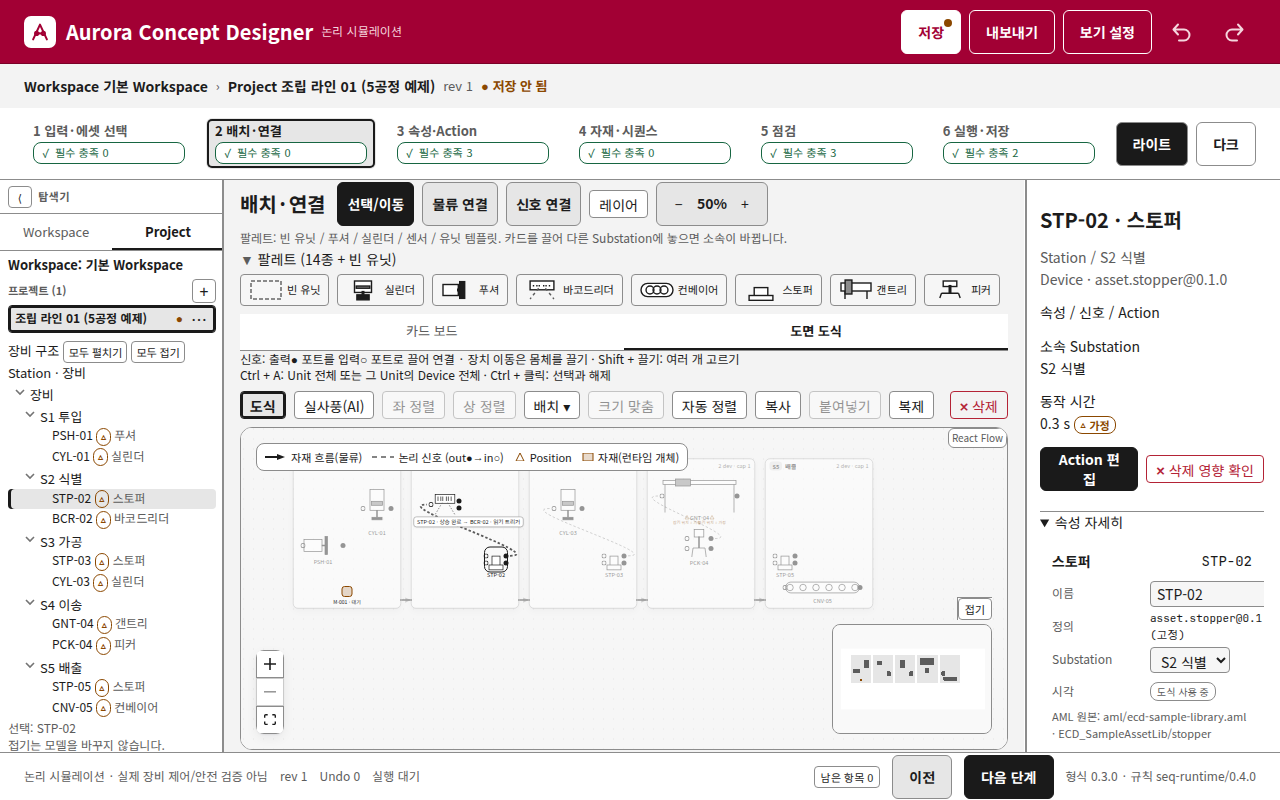
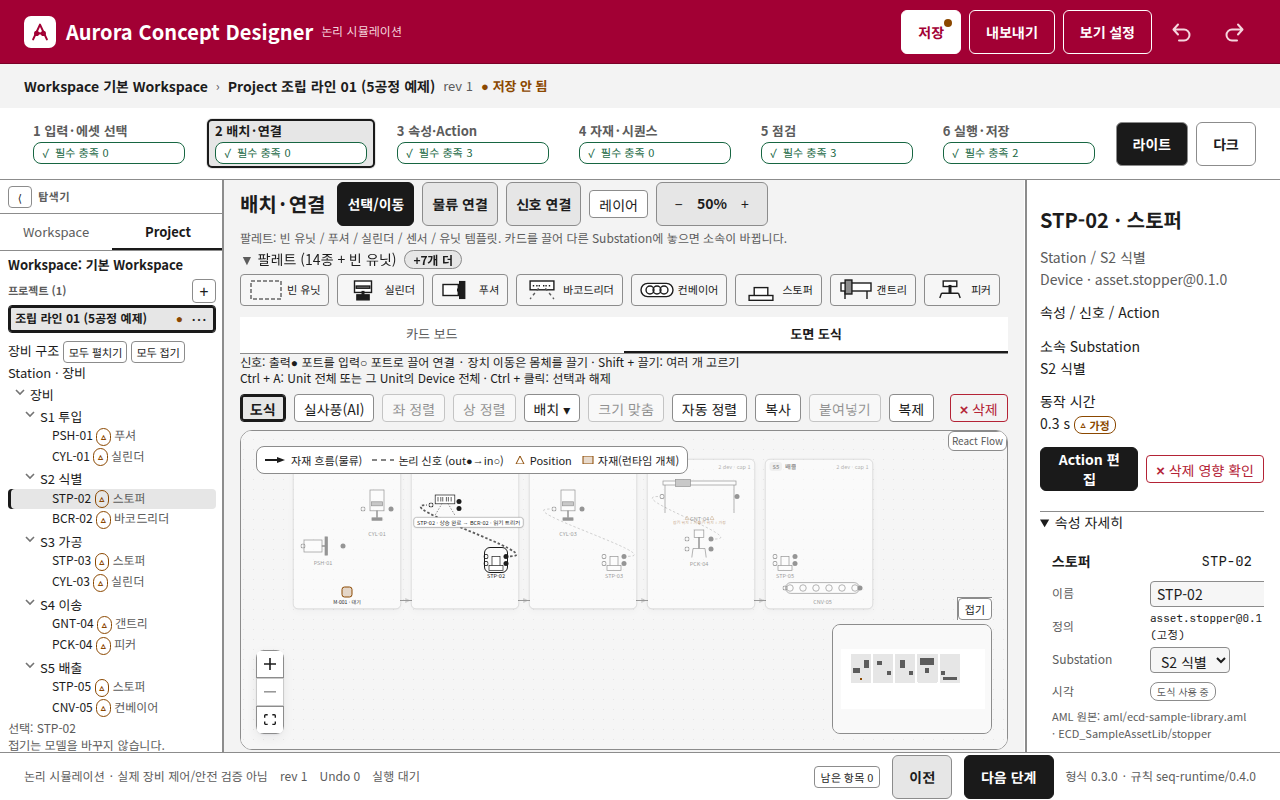
TURN-048: 팔레트는 도면이 320px 남을 때 줄을 다 보여 준다
고정 한 줄 대신, 도면 도식이 320px 아래로 내려갈 때만 팔레트를 줄여 스크롤한다. 줄인 화면에는 「+N개 더」를 둔다.

diff --git a/src/ui/screenRoom.ts b/src/ui/screenRoom.ts
@@ -1,21 +1,23 @@
-// TURN-048: 1280×800 stage-2 diagram room.
-// The open palette scrolls inside PALETTE_OPEN_MAX so the schematic stays at least DIAGRAM_MIN.
-// Heights below are the stage rows measured at 1280×800 (Noto Sans KR, device pixel ratio 1).
+// TURN-048: stage-2 diagram room.
+// The palette keeps every wrapped row while the schematic stays at least DIAGRAM_MIN.
+// It shrinks and scrolls only when showing every row would push the schematic under that floor.
+// Row heights below are the open palette's content height at that width (Noto Sans KR, dpr 1).
 
-/** Floor for `.diagram-canvas` when the stage-2 palette is open at 1280×800. */
+/** Floor for `.diagram-canvas` on the layout step. */
 export const DIAGRAM_MIN = 320;
 
-/** One palette row. The other kinds scroll inside `.layout-stage .palette-fold .palette`. */
-export const PALETTE_OPEN_MAX = 40;
+/**
+ * Natural height of the open palette (every wrapped row, no cap).
+ * 1280-wide stage fits the 15 kinds in three rows (116px). 1600-wide fits them in two (76px).
+ */
+export const PALETTE_NATURAL = { w1280: 116, w1600: 76 } as const;
 
 /**
- * Vertical budget, px. Shell: header 64, work bar 44, stepper 72, status 48 → workspace 572.
+ * Vertical budget, px, aside from the palette body. Shell: header 64, work bar 44, stepper 72, status 48.
  * Stage pads 2+2 and gaps 4 between head, hint, palette, and the tab block.
- * `tools` is the diagram tool row (two-line hint plus the 28px buttons).
- * `panelGap` is the gap between that row and the schematic.
+ * `tools` is the diagram tool row. `panelGap` is the gap between that row and the schematic.
  */
 export const STAGE2_BUDGET = {
-  viewportH: 800,
   header: 64,
   workbar: 44,
   stepper: 72,
@@ -26,7 +28,6 @@ export const STAGE2_BUDGET = {
   head: 44,
   hint: 16.2,
   summary: 19.6,
-  paletteMax: PALETTE_OPEN_MAX,
   tab: 37,
   tools: 68.4,
   panelGap: 8,
@@ -36,12 +37,28 @@ export const STAGE2_BUDGET = {
 export const LEGEND_H = 28;
 export const ZOOM_CONTROLS_H = 84;
 
-export function stage2DiagramHeight(b = STAGE2_BUDGET): number {
-  const workspace = b.viewportH - b.header - b.workbar - b.stepper - b.statusbar;
+/** Height left for the palette body and the schematic together. */
+export function roomForPaletteAndDiagram(viewportH: number, b = STAGE2_BUDGET): number {
+  const workspace = viewportH - b.header - b.workbar - b.stepper - b.statusbar;
   const gaps = b.stageGap * (b.rows - 1);
   const inner = workspace - b.stagePadY * 2 - gaps;
-  const above = b.head + b.hint + b.summary + b.paletteMax + b.tab + b.tools + b.panelGap;
-  return inner - above;
+  const beside = b.head + b.hint + b.summary + b.tab + b.tools + b.panelGap;
+  return inner - beside;
+}
+
+/**
+ * Show the whole palette when the schematic still clears `diagramMin`.
+ * Otherwise shorten the palette and keep the schematic on that floor.
+ */
+export function fitPalette(room: number, naturalPalette: number, diagramMin = DIAGRAM_MIN) {
+  const roomLeft = Math.max(0, room);
+  const natural = Math.max(0, naturalPalette);
+  const palette = Math.min(natural, Math.max(0, roomLeft - diagramMin));
+  return { palette, diagram: roomLeft - palette, clipped: natural - palette > 0.5 };
+}
+
+export function stage2DiagramHeight(viewportH = 800, naturalPalette = PALETTE_NATURAL.w1280): number {
+  return fitPalette(roomForPaletteAndDiagram(viewportH), naturalPalette).diagram;
 }
 
 /** Legend and zoom controls sit on opposite edges of the diagram and do not meet. */

diff --git a/src/ui/App.tsx b/src/ui/App.tsx
@@ -174,6 +174,29 @@ export function App({ onHistory }: { onHistory?: (h: History) => void } = {}) {
   const subUnitId = (p.units.some((u) => u.id === subUnitPref) ? subUnitPref : selUnit ?? p.units.find((u) => (p.substationSequences ?? []).some((q) => q.unitId === u.id))?.id ?? p.units[0]?.id ?? '');
 
   useEffect(() => { saveView(kv, view); }, [kv, view]);
+  const paletteRef = useRef<HTMLDivElement>(null);
+  const [paletteHidden, setPaletteHidden] = useState(0);
+  useEffect(() => {
+    const el = paletteRef.current;
+    const fold = el?.closest('.palette-fold') as HTMLElement | null;
+    if (!el || !fold) { setPaletteHidden(0); return; }
+    const count = () => {
+      const box = fold.getBoundingClientRect();
+      if (box.height < 1 || fold.scrollHeight <= fold.clientHeight + 1) { setPaletteHidden(0); return; }
+      let n = 0;
+      for (const item of el.querySelectorAll('.pi')) {
+        const r = item.getBoundingClientRect();
+        if (r.height < 1) continue;
+        if (r.top < box.top - 1 || r.bottom > box.bottom + 1) n += 1;
+      }
+      setPaletteHidden((v) => (v === n ? v : n));
+    };
+    count();
+    const ro = new ResizeObserver(count);
+    ro.observe(fold);
+    fold.addEventListener('scroll', count);
+    return () => { ro.disconnect(); fold.removeEventListener('scroll', count); };
+  }, [step, view.paletteOpen, view.layoutTab]);
   useEffect(() => { if (wsInit?.warnings.length) say(wsInit.warnings.join(' / '), true); }, []); // eslint-disable-line react-hooks/exhaustive-deps
   useEffect(() => { onHistory?.(tab.history); }, [onHistory, tab.history]);
   // N03: a project that is not active never keeps running in the background → pause (state kept, no auto resume)
@@ -1095,8 +1118,8 @@ export function App({ onHistory }: { onHistory?: (h: History) => void } = {}) {
             </div>
           </div>
           <p className="palette-hint">팔레트: 빈 유닛 / 푸셔 / 실린더 / 센서 / 유닛 템플릿. 카드를 끌어 다른 Substation에 놓으면 소속이 바뀝니다.</p>
-          <Fold className="palette-fold" open={view.paletteOpen} onToggle={(open) => setView((v) => (v.paletteOpen === open ? v : { ...v, paletteOpen: open }))} summary={<><span className="fold-closed">팔레트 펼치기 ({ASSET_LIBRARY.length}종 + 빈 유닛)</span><span className="fold-open">팔레트 ({ASSET_LIBRARY.length}종 + 빈 유닛)</span></>}>
-            <div className="palette">
+          <Fold className="palette-fold" open={view.paletteOpen} onToggle={(open) => setView((v) => (v.paletteOpen === open ? v : { ...v, paletteOpen: open }))} summary={<><span className="fold-closed">팔레트 펼치기 ({ASSET_LIBRARY.length}종 + 빈 유닛)</span><span className="fold-open">팔레트 ({ASSET_LIBRARY.length}종 + 빈 유닛)</span>{paletteHidden > 0 && <span className="palette-more" data-palette-more={paletteHidden}>+{paletteHidden}개 더</span>}</>}>
+            <div className="palette" ref={paletteRef}>
               <div className="pi" data-jump="palette-unit" draggable onDragStart={(e) => e.dataTransfer.setData('application/x-ecd-asset', 'unit')}><PaletteIcon kind="unit" />빈 유닛</div>
               {ASSET_LIBRARY.map((a) => <div key={a.kind} className="pi" draggable onDragStart={(e) => e.dataTransfer.setData('application/x-ecd-asset', a.kind)} title={`${a.id}@${a.version}`}><PaletteIcon kind={a.kind} />{a.name}</div>)}
             </div>

diff --git a/tests/ui-turn048.test.tsx b/tests/ui-turn048.test.tsx
@@ -18,7 +18,7 @@ import {
   RUN_FIT_PAD,
 } from '../src/ui/Canvas';
 import { DIM_EDGE_OPACITY, edgeWidth, flowCaption, graphFocus, portWord, signalCaption } from '../src/ui/edgeFocus';
-import { DIAGRAM_MIN, PALETTE_OPEN_MAX, stage2DiagramHeight, stage2OverlayClears } from '../src/ui/screenRoom';
+import { DIAGRAM_MIN, PALETTE_NATURAL, fitPalette, roomForPaletteAndDiagram, stage2DiagramHeight, stage2OverlayClears } from '../src/ui/screenRoom';
 import { loadView } from '../src/ui/viewSettings';
 import { VIEW_KEY } from '../src/storage/localStore';
 import { holdRuntimeClock } from './holdRuntimeClock';
@@ -26,6 +26,7 @@ import { holdRuntimeClock } from './holdRuntimeClock';
 (globalThis as { IS_REACT_ACT_ENVIRONMENT?: boolean }).IS_REACT_ACT_ENVIRONMENT = true;
 
 const css = readFileSync('src/ui/styles.css', 'utf8');
+const appSrc = readFileSync('src/ui/App.tsx', 'utf8');
 let root: Root | null = null;
 let restoreObserver: (() => void) | null = null;
 
@@ -263,16 +264,26 @@ describe('TURN-048 edge emphasis', () => {
 });
 
 describe('TURN-048 screen room', () => {
-  it('AC7 at 1280×800 the open palette leaves the diagram at least 320px and keeps every kind', async () => {
-    const height = stage2DiagramHeight();
-    expect(height).toBeGreaterThanOrEqual(DIAGRAM_MIN);
-    expect(stage2OverlayClears(height)).toBe(true);
+  it('AC7 the palette keeps every row while the diagram stays at least 320px, and marks hidden rows', async () => {
+    const wide = fitPalette(roomForPaletteAndDiagram(1000), PALETTE_NATURAL.w1600);
+    expect(wide.clipped).toBe(false);
+    expect(wide.palette).toBe(PALETTE_NATURAL.w1600);
+    expect(wide.diagram).toBeGreaterThanOrEqual(DIAGRAM_MIN);
+    const narrow = fitPalette(roomForPaletteAndDiagram(800), PALETTE_NATURAL.w1280);
+    expect(narrow.diagram).toBeGreaterThanOrEqual(DIAGRAM_MIN);
+    expect(narrow.diagram).toBe(stage2DiagramHeight());
+    expect(narrow.clipped).toBe(true);
+    expect(narrow.palette).toBeLessThan(PALETTE_NATURAL.w1280);
+    expect(stage2OverlayClears(narrow.diagram)).toBe(true);
     expect(css).toMatch(/\.app \.ws-canvas > \.stage\.layout-stage \{[^}]*padding:\s*2px 16px/);
     expect(css).toMatch(/\.app \.ws-canvas > \.stage\.layout-stage \{[^}]*gap:\s*4px/);
-    expect(css).toContain(`max-height: ${PALETTE_OPEN_MAX}px`);
+    expect(css).toMatch(/\.layout-stage \.layout-tabs \.diagram-canvas \{[^}]*min-height:\s*320px/);
+    expect(css).not.toMatch(/\.layout-stage \.palette-fold \.palette \{[^}]*max-height:\s*40px/);
     expect(css).toMatch(/\.layout-stage \.palette-fold \.palette \{[^}]*overflow-y:\s*auto/);
     expect(css).toMatch(/\.layout-stage \.palette-fold \.palette \{[^}]*overflow-x:\s*hidden/);
-    expect(css).toMatch(/\.layout-stage \.stage-head \{[^}]*flex-wrap:\s*wrap/);
+    expect(css).toMatch(/\.palette-more \{/);
+    expect(appSrc).toContain('data-palette-more');
+    expect(appSrc).toContain('개 더');
     const u = await mount();
     await openDiagram(u);
     const items = [...u.el.querySelectorAll('.layout-stage .palette .pi')];

diff --git a/src/ui/styles.css b/src/ui/styles.css
@@ -826,7 +826,7 @@ details[open] .fold-open { display: inline; }
 .layout-stage .palette-hint { line-height: 1.35; }
 .layout-stage .palette-fold { display: block; width: 100%; max-width: 100%; min-width: 0; flex-shrink: 0; }
 .layout-stage .palette-fold > summary { display: block; }
-.layout-stage .palette-fold .palette { display: flex; width: 100%; max-width: 100%; min-width: 0; flex-wrap: wrap; overflow-x: hidden; overflow-y: auto; max-height: 40px; padding: 4px 0 0; border-top: 0; }
+.layout-stage .palette-fold .palette { display: flex; width: 100%; max-width: 100%; min-width: 0; flex-wrap: wrap; overflow-x: hidden; overflow-y: auto; padding: 4px 0 0; border-top: 0; }
 .layout-stage .palette-fold .pi { flex: 0 0 auto; display: flex; flex-direction: row; align-items: center; gap: 4px; white-space: nowrap; padding: 4px 8px; }
 .layout-stage .palette-fold .pi svg { margin: 0; }
 .layout-tabs { flex: 1 1 auto; min-height: 0; display: flex; flex-direction: column; }
@@ -839,6 +839,14 @@ details[open] .fold-open { display: inline; }
 .layout-tabs .diagram-tools { flex: 0 0 auto; margin: 0; }
 .diagram-hint { flex: 1 0 100%; margin: 0; font-size: 12px; line-height: 1.35; color: var(--text); }
 .layout-tabs .diagram-canvas { flex: 1 1 auto; height: auto; min-height: 0; }
+/* The palette yields only after the schematic would drop under 320px. Rows are not capped at one. */
+.layout-stage > .stage-head,
+.layout-stage > .palette-hint { flex-shrink: 0; }
+.layout-stage > .palette-fold { flex: 0 1 auto; min-height: 0; overflow: auto; }
+.layout-stage > .palette-fold > summary { position: sticky; top: 0; z-index: 1; background: var(--bg); }
+.layout-stage > .layout-tabs { flex: 1 0 auto; }
+.layout-stage .layout-tabs .diagram-canvas { min-height: 320px; }
+.palette-more { margin-left: 8px; padding: 0 8px; border: 1px solid var(--border); border-radius: 999px; background: var(--selected); color: var(--text); font-size: 12px; font-weight: 700; line-height: 18px; white-space: nowrap; }
 
 /* TURN-010: short project list above the equipment tree. Six rows fit; the seventh scrolls inside the list. */
 .proj-line { padding: 4px 8px 0; }
